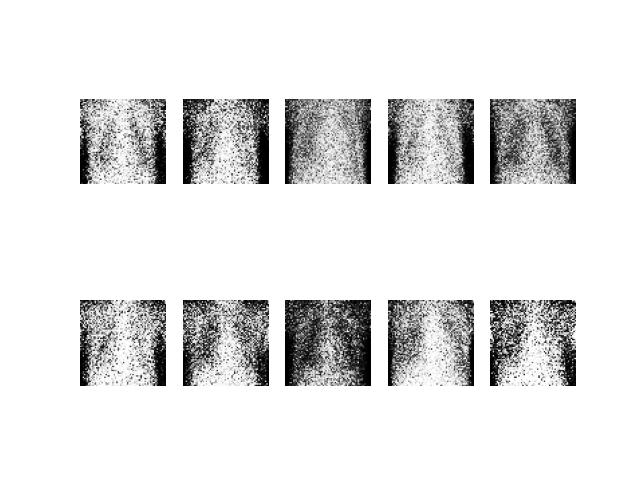
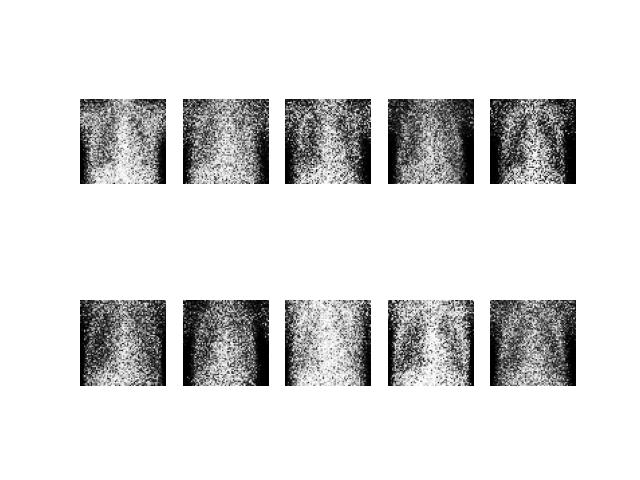
update

Changed region(s): [[0.125, 0.1875, 0.9062, 0.4062], [0.125, 0.625, 0.9062, 0.8125]]

diff --git a/models/cgan.py b/models/cgan.py
@@ -23,6 +23,10 @@ class CGAN():
 
         optimizer = Adam(2e-4, 0.5)
 
+        self.generator_losses = []
+        self.discriminator_losses = []
+        self.discriminator_acc = []
+
         # building and compiling the discriminator
         self.discriminator = self.build_discriminator()
         self.discriminator.compile(
@@ -152,13 +156,16 @@ class CGAN():
 
                 print("%d [D loss: %f, acc.: %.2f%%] [G loss: %f]" % (epoch, d_loss[0], 100*d_loss[1], g_loss))
 
-                if epoch % sample_interval == 0:
+                self.generator_losses.append(g_loss)
+                self.discriminator_losses.append(d_loss[0])
+                self.discriminator_acc.append(100*d_loss[1])
+
+                if epoch % sample_interval == 0 or epoch == epochs -1:
                     self.sample_images(epoch)
 
     def sample_images(self, epoch):
         r, c = 2, 5
         noise = np.random.normal(0, 1, (r * c, 100))
-        # sampled_labels = np.arange(0, 2).reshape(-1, 1)
         sampled_labels = np.array([[i % self.num_classes] for i in range(r * c)])
 
         gen_imgs = self.generator.predict([noise, sampled_labels])
@@ -174,10 +181,33 @@ class CGAN():
                 ax[i, j].set_title("Label %s" % sampled_labels[cnt])
                 ax[i, j].axis('off')
                 cnt = cnt + 1
-        fig.savefig(f'../generated_images_cgan/{epoch+1}.jpg')
+        fig.savefig(f'../generated_images_cgan/{epoch}.jpg')
         plt.close()
+
+    def plot_losses_and_accuracy(self, epochs):
+        epochs_range = np.linspace(1, epochs, len(self.generator_losses))
+
+        fig, ax1 = plt.subplots(figsize=(24, 8), dpi=100)
+
+        ax1.plot(epochs_range, self.generator_losses, label='Generator Loss', color='crimson')
+        ax1.plot(epochs_range, self.discriminator_losses, label='Discriminator Loss', color='dodgerblue')
+        ax1.set_xlabel('Epochs')
+        ax1.set_ylabel('Loss')
+        ax1.tick_params(axis='y')
+        ax1.legend(loc=(1.15, 0.8))
+
+        ax2 = ax1.twinx()
+        ax2.plot(epochs_range, self.discriminator_acc, label='Discriminator Accuracy', color='khaki')
+        ax2.set_ylabel('Accuracy')
+        ax2.tick_params(axis='y')
+        ax2.legend(loc=(1.15, 0.3))
+
+        fig.tight_layout()
+        fig.savefig('../generated_images_cgan/losses_and_accuracy_cgan.jpg')
+        plt.close(fig)
 
 
 if __name__ == '__main__':
     cgan = CGAN()
-    cgan.train(epochs=100, batch_size=32, sample_interval=10)
+    cgan.train(epochs=50, batch_size=32, sample_interval=10)
+    cgan.plot_losses_and_accuracy(epochs=50)

diff --git a/models/gan.py b/models/gan.py
@@ -164,7 +164,7 @@ class GAN():
     def plot_losses_and_accuracy(self, epochs):
         epochs_range = np.linspace(1, epochs, len(self.generator_losses))
 
-        fig, ax1 = plt.subplots(figsize=(24, 6), dpi=100)
+        fig, ax1 = plt.subplots(figsize=(24, 8), dpi=100)
 
         ax1.plot(epochs_range, self.generator_losses, label='Generator Loss', color='crimson')
         ax1.plot(epochs_range, self.discriminator_losses, label='Discriminator Loss', color='dodgerblue')
@@ -186,5 +186,5 @@ class GAN():
 
 if __name__ == '__main__':
     gan = GAN()
-    gan.train(epochs=100, batch_size=32, sample_interval=10)
-    gan.plot_losses_and_accuracy(epochs=100)
+    gan.train(epochs=50, batch_size=32, sample_interval=10)
+    gan.plot_losses_and_accuracy(epochs=50)
